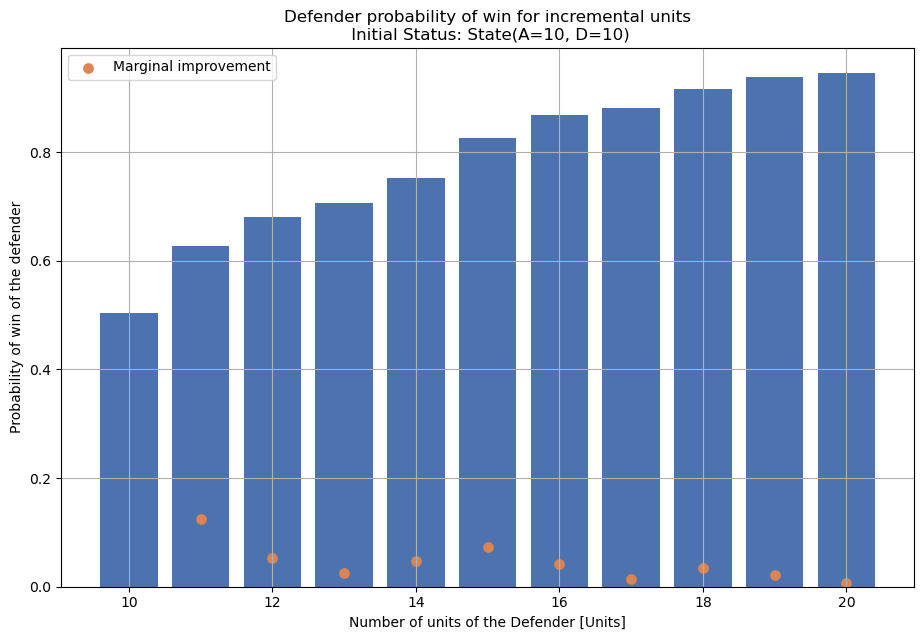
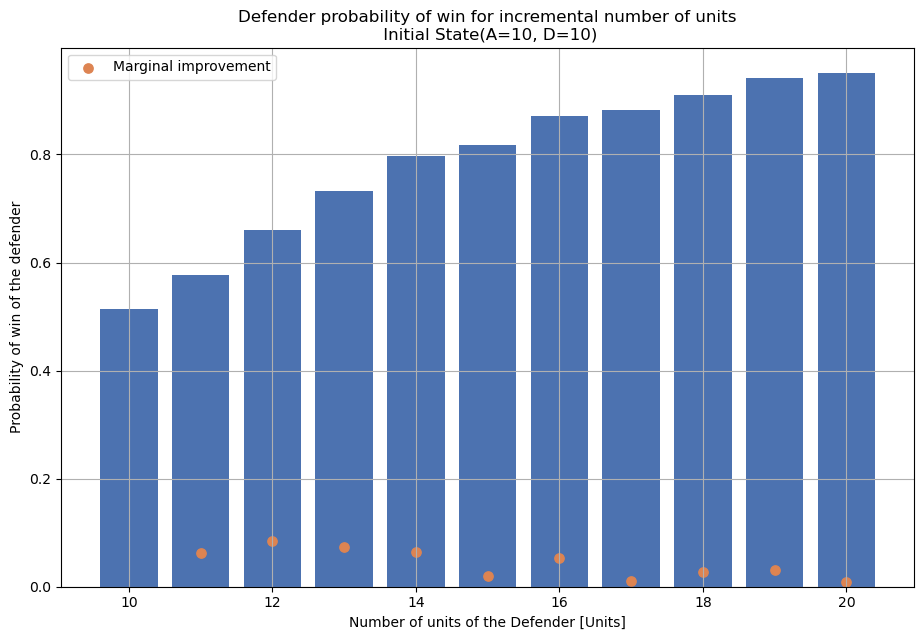
Readme update. Marginal units calculation added. Improvements in the code and streamlit app.

diff --git a/src/game/play.py b/src/game/play.py
@@ -25,14 +25,6 @@ class RiskGame(object):
     def _random_roll(self, n: int) -> list[int]:
         """
         Roll n dice with a customizeble dimention.
-
-
-        Args:
-            n (_type_): _description_
-            die (_type_, optional): _description_. Defaults to DIE.
-
-        Returns:
-            Dice: _description_
         """
 
         return [random.choice(self.die) for _ in range(n)]
@@ -41,13 +33,6 @@ class RiskGame(object):
     def battle_outcome(self, A_rolls_n_dice: int, D_rolls_n_dice: int) -> UnitLosses:
         """
         How many (attacker, defender) armies perish as the result of these dice?
-
-        Args:
-            A_dice (Dice): _description_
-            D_dice (Dice): _description_
-
-        Returns:
-            _type_: _description_
         """
         A_dice = self._random_roll(A_rolls_n_dice)
         D_dice = self._random_roll(D_rolls_n_dice)
@@ -59,18 +44,13 @@ class RiskGame(object):
     def update(self, state: State, dead: UnitLosses) -> State:
         """
         Update the `state` of a campaign to reflect the`dead` in a battle.
-        
-        Args:
-            state (State): _description_
-            dead (UnitLosses): _description_
-
-        Returns:
-            State: _description_
         """       
         a = state.A - dead.A  # Attackers remaining
         d = state.D - dead.D  # First territory defenders remaining
         return State(a, d)      
 
     def check_game_status(self, state: State) -> bool: 
-        """Is the game over?"""
+        """
+        Check the status of the game
+        """
         return state.D == 0 or state.A <= 1

diff --git a/src/visualization/plots.py b/src/visualization/plots.py
@@ -40,7 +40,7 @@ def plot_histogram_probability(simout: Counter, state: State, save_root: str="pl
     
     if save_fig:
         save_path = f"{save_root}/risk_status_simulation.png"
-        fig.savefig(save_path, dpi=fig.dpi)
+        fig.savefig(save_path, dpi=fig.dpi, bbox_inches="tight")
         logger.info(f" -- Plot saved at the following path: {save_path}")
     else:
         return fig
@@ -56,7 +56,7 @@ def plot_defence_improvements(simout_defender: list[DefenseImprovement], state: 
         else:
             plt.bar(sim.n_defenders, sim.p_win, color="#4C72B0")
             plt.scatter(sim.n_defenders, marginal_gain[index, 0], color="#DD8452", marker="o", s=45)
-        plt.title(f'Defender probability of win for incremental units\n Initial {state}')
+        plt.title(f'Defender probability of win for incremental number of units\n Initial {state}')
         plt.legend()
         plt.xlabel('Number of units of the Defender [Units]')
         plt.ylabel('Probability of win of the defender')

diff --git a/src/simulation/mc.py b/src/simulation/mc.py
@@ -42,13 +42,6 @@ class MCSimulation(object):
     def simulate_single_attack(self, state: State) -> State:
         """
         Simulate a single attack campaign with random rolls and returs the final state.
-
-        Args:
-            state (_type_): _description
-            riskgame (RiskGame): _description_
-
-        Returns:
-            State: _description_
         """
     
         while not self.riskgame.check_game_status(state):

diff --git a/README.md b/README.md
@@ -1,140 +1,110 @@
-# MC Simulation of Risk (board game)
+# Risk (game) Monte Carlo Simulator
+
+![Risk board](images/risk_game.jpg)
+
+<center>Risk game map</center>
 
 ## Intro
 
-So you just decided to add a README to your project. You want to create an easy
-to read and easy to navigate file.
+One exciting application of Monte Carlo Simulations is that they allow you to make better decisions when given a range of possible scenarios, which is especially useful in financial sectors such as risk or portfolio management. However, although less useful, its an interesting idea to apply high-level statistical tools such as Monte Carlo Simulation (MCS) to board games such *Risk*.
 
-The question is: What should you do next?
+This repository contains all the code used to develop the Streamlit App and run the simulation locally.
 
-Should you create one from scratch? Find a silver bullet solution? Or is it
-better to customize an already existing file?
+## Quick Start
 
-I'm going to show you how to create a README that fits your project, is easy
-to read and contains everyting you will ever need.
+For a quick start, it is possible to use the simulation tool without any installation by accessing the dashboard hosted by Streamlit.
 
-## Feature overview
+[![Streamlit App](https://static.streamlit.io/badges/streamlit_badge_black_white.svg)](https://share.streamlit.io/yourGitHubName/yourRepo/yourApp/) 
 
-*   [x] **Easy to read** like an article
-*   [x] **Feature overview and Contents** for fast orientation
-*   [ ] **Visuals** to keep users engaged
+[Open the Streamlit App]()
 
 ## Contents
 
-*   [What is this?](#what-is-this)
-*   [When should I use this?](#when-should-i-use-this)
 *   [Getting started](#getting-started)
-    *   [Requirements](#requirements)
-    *   [Install](#install)
+    *   [Install locally](#install-locally)
     *   [Usage](#usage)
-*   [Here is where it's your turn](#here-is-where-its-your-turn)
-*   [Don't forget anything](#dont-forget-anything)
-    * [Used Technologies](#used-technologies)
-    * [Testing](#testing)
-    * [Logging](#logging)
+*   [Functionalities and Outcomes](#functionalities-and-outcomes)
 *   [Contribute](#contribute)
 *   [License](#license)
-*   [Sources](#sources)
 *   [Conclusion](#conclusion)
-
-## What is this?
-
-This project is an exhaustive README template that you can customize to your needs.
-You can either add sections you like or remove sections you don't like. But you have
-every time an example in front of you, from which you can derive from.
-
-## Why should I use this?
-
-There are many README templates out there so why this one? The two main reasons for this are
-that they contain often too little content or they are not easy to read or navigate through.
+*   [References](#references)
 
 ## Getting Started
 
 So how do you get this template to work for your project? It is easier than you think.
 
-### Requirements
-
-* Have a project ready where you can add a README
-* Basic knowledge of [Markdown][about-markdown] (here is a [Cheatsheet][markdown-cheatsheet])
-
-### Install
+### Install Locally
 
 Use git to clone this repository into your computer.
 
+```bash
+git clone https://github.com/FrancescoMrn/MC_simulation_risk
 ```
-git clone https://gitlab.com/kopino4-templates/readme-template
+
+Create a new environment i.e. with conda. Activate it and install the required packages
+
+```bash
+conda create -n risk_mc python=3.10 -y
+conda activate risk_mc
+```
+
+Move into the git repo cloned above and run
+
+```bash
+pip install -r requirements.txt
 ```
 
 ### Usage
 
-Use the well known command to copy the template
+The main script can be executed by using the following command.
 
 ```bash
-# Copy the content
-CTRL + C
-
-# Pase into your project
-CTRL + V
+# Run the main script
+python main.py
 ```
 
-## Here is where it's your turn
+Nevertheless, the script in the current version does not expose any parameters to the command windows. To change the parameters or explore the code, running the script with an IDE is suggested.
 
-Here starts the main content of your README. This is why you did it for in the first place.
-To describe to future users of this project (including yourself) everything they need to know
-to be able to use it and understand it.
+## Functionalities and Outcomes
 
-Use visuals to help the reader understand better. An image, diagram, chart or code example says
-more than thousand words
+The code is designed to produce for a specific state (number of attackers, number of defenders) the following results:
 
+- Probability of Win of the Attacker (A)
+- Probability of Win of the Defender (A)
+- Binomial Distribution Standard Deviation
+- Number of units that best increase the defense capabilities (given the initial conditions)
 
-## Don't forget anything
+Additional to the above results, the code produces three plots, saved inside the folder ```/plots```:
 
-Think hard about anything that is clear to you but might not be clear for others. Why are you
-using this aproach or why did you pick this solution instead?
-
-### Used technologies
-
-For sure mention all the technologies you used. If the technologies age in time you don't forget
-they are used and need to be replaced.
-
-### Testing
-
-No tests no sucess. You SHOULD have tests for every project, but do new users know how to run them?
-
-### Logging
-
-Logging is essential. How do you know something went wrong if the computer doesn't tell you? Logs
-are the first place to search for bugs. Explain to everybody how you can customize it or used it
-in the right way.
+- Win probability and remaining units (for attacker and defender)
+- Defender probability of a win for the incremental number of units
+- Risk attacker strategy - Overview of how the delta, the difference in units between Attacker/Defender, affects the game
 
 ## Contribute
 
-Pull requests are welcome. For major changes, please open an issue first to discuss what you would like to change.
-
-Please make sure to update tests as appropriate.
+Pull requests are welcome. For significant changes, please open an issue to discuss what you would like to change.
 
 ## License
+
 [MIT](https://choosealicense.com/licenses/mit/)
-
-## Sources
-
-[react-markdown][react-markdown] - Project which served as an inspiration for this README
-
-[Blog post templates][blog-post-templates] - Used to structure this template as an easy to read blog post
-
-[About markdown][about-markdown] - Why should you use markdown?
-
-[Markdown Cheat Sheet][markdown-cheatsheet] - Get a fast overview of the syntax
-
-[//]: # "Source definitions"
-[react-markdown]: https://github.com/remarkjs/react-markdown "React-markdown project"
-[blog-post-templates]: https://backlinko.com/hub/content/blog-post-templates "Backlinko blog post templates"
-[about-markdown]: https://www.markdownguide.org/getting-started/ "Introduction to markdown"
-[markdown-cheatsheet]: https://www.markdownguide.org/cheat-sheet/ "Markdown Cheat Sheet"
 
 ## Conclusion
 
-To summarize.
+To summarise, his repository implements a complete Monte Carlo Simulation of the game *Risk*. Through the simulation, some patterns specific to the game can be highlighted:
 
-We have an exhaustive README template with many features. The README is easy to read and navigate like an article.
-In our future projects we can use this template to get a great head start in creating a custom README.
+**Attackers strategy tip:**
+
+- Aggressive strategies should be preferred over defensive ones
+- Attack a territory only with a numerical advantage
+- With more than five units than the defender, the probability of a win is ~90%
+
+**Defenders strategy tip:**
+
+- It's better to double up defence on single territories to improve the overall defence capability.
+- The best reinforcement strategy is to get your regions up to the number of armies of the attacker.
+
+
+## References
+
+- Game rules and image [Ultra Board Games](https://www.ultraboardgames.com/risk/game-rules.php)
+- [Simulating Risk The Board Game](https://juliangarratt.com/monte-carlo-simulations-simulating-risk-the-board-game/)
